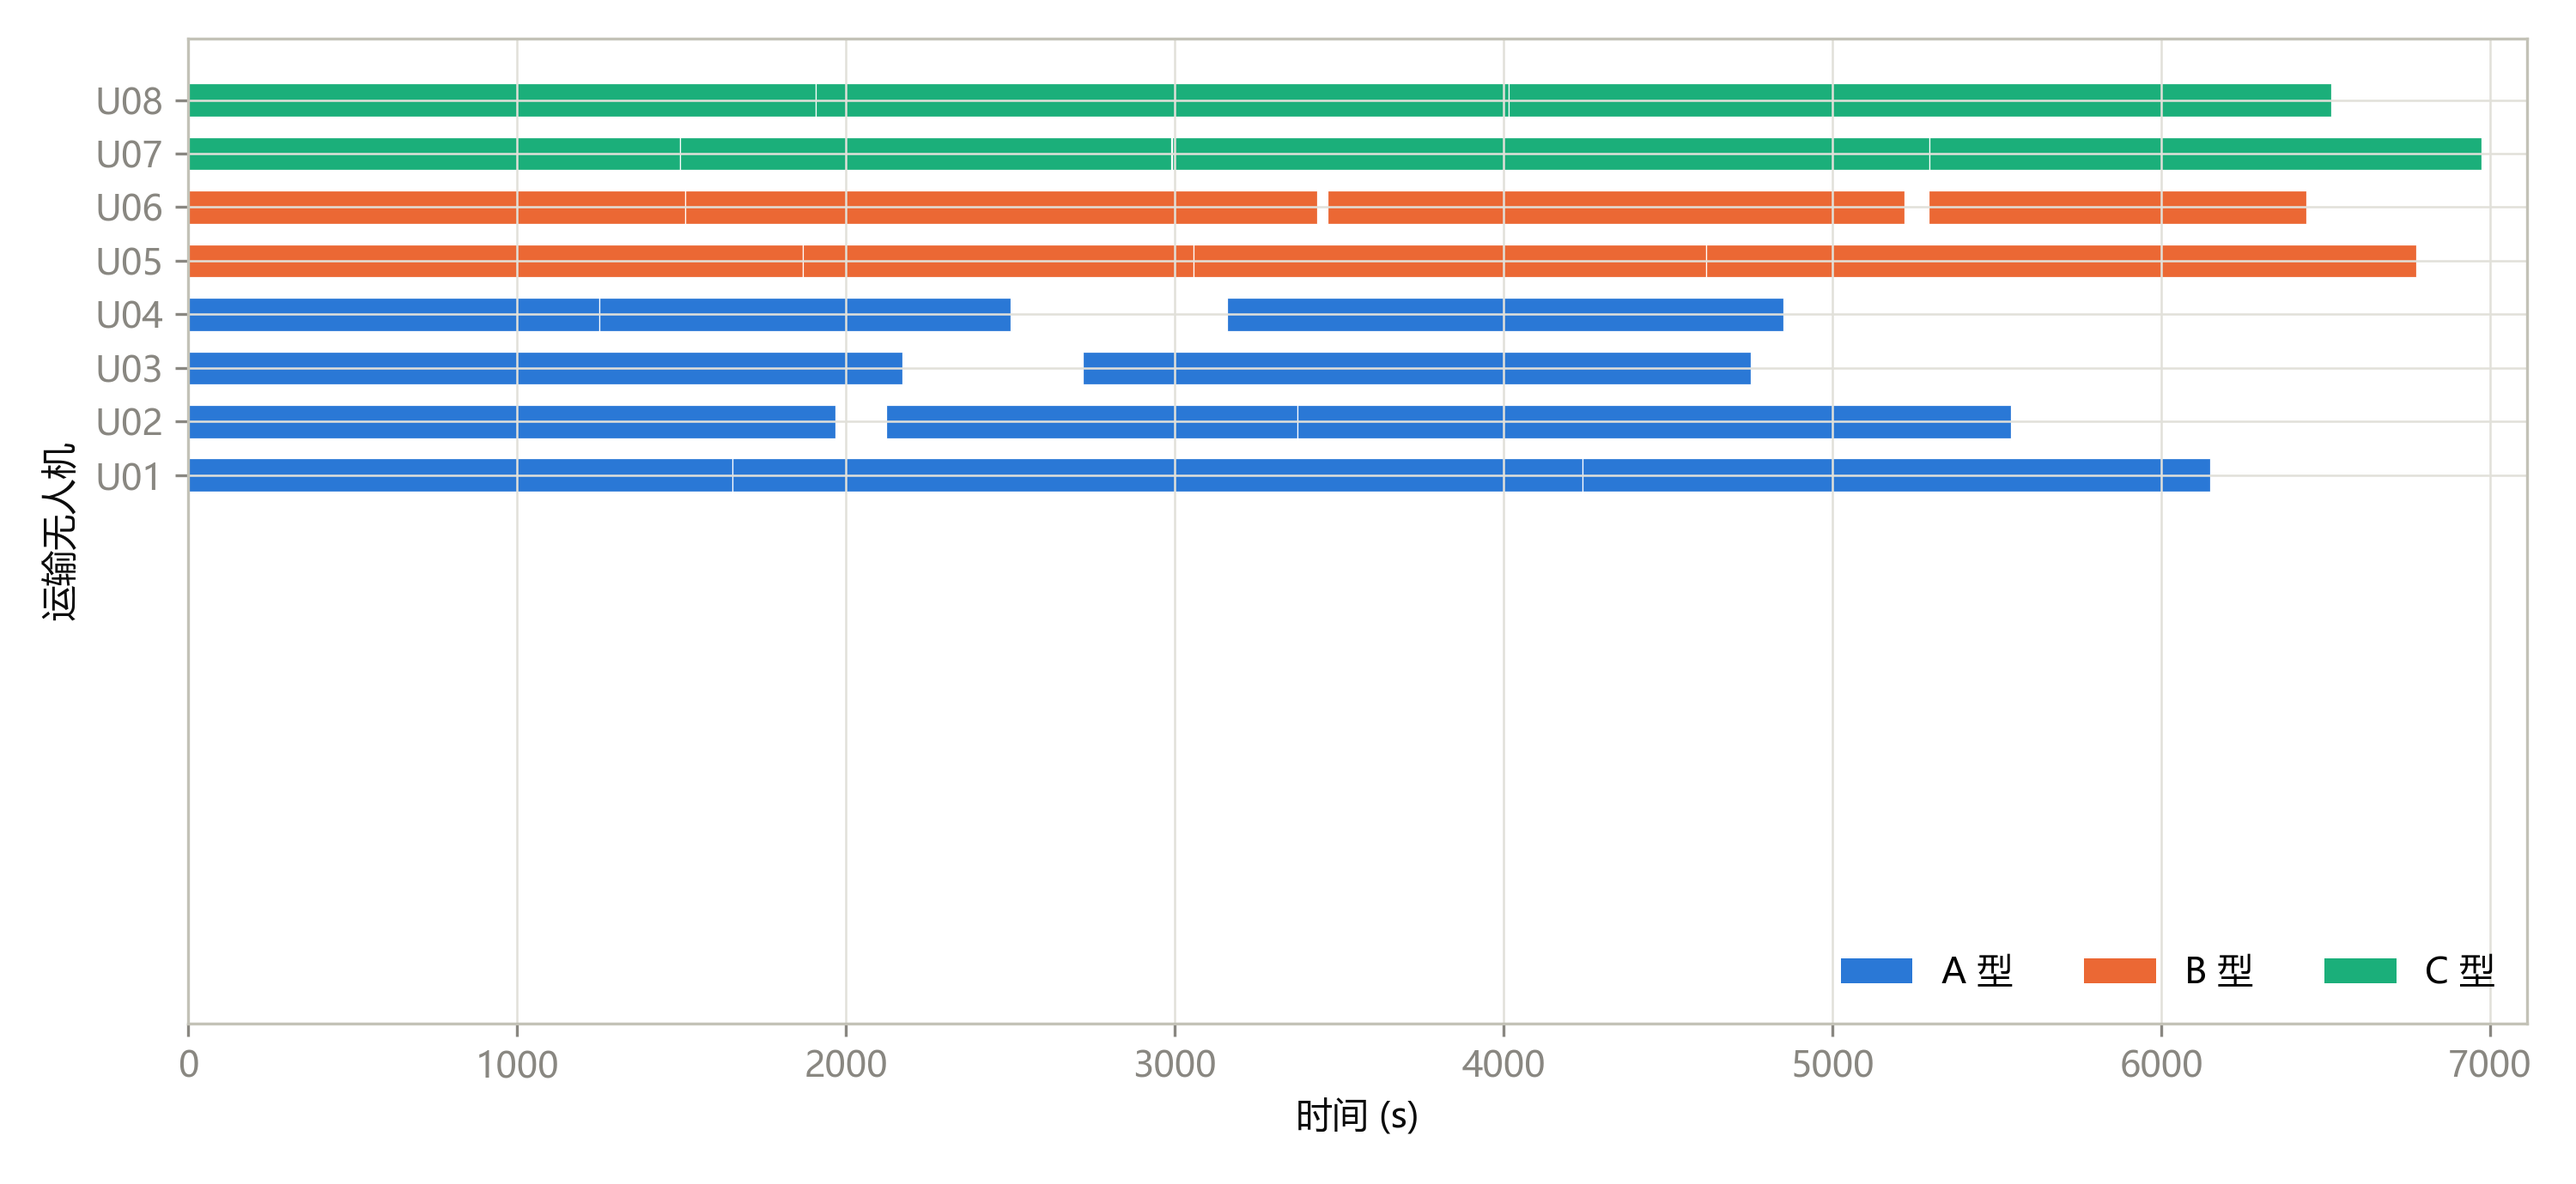
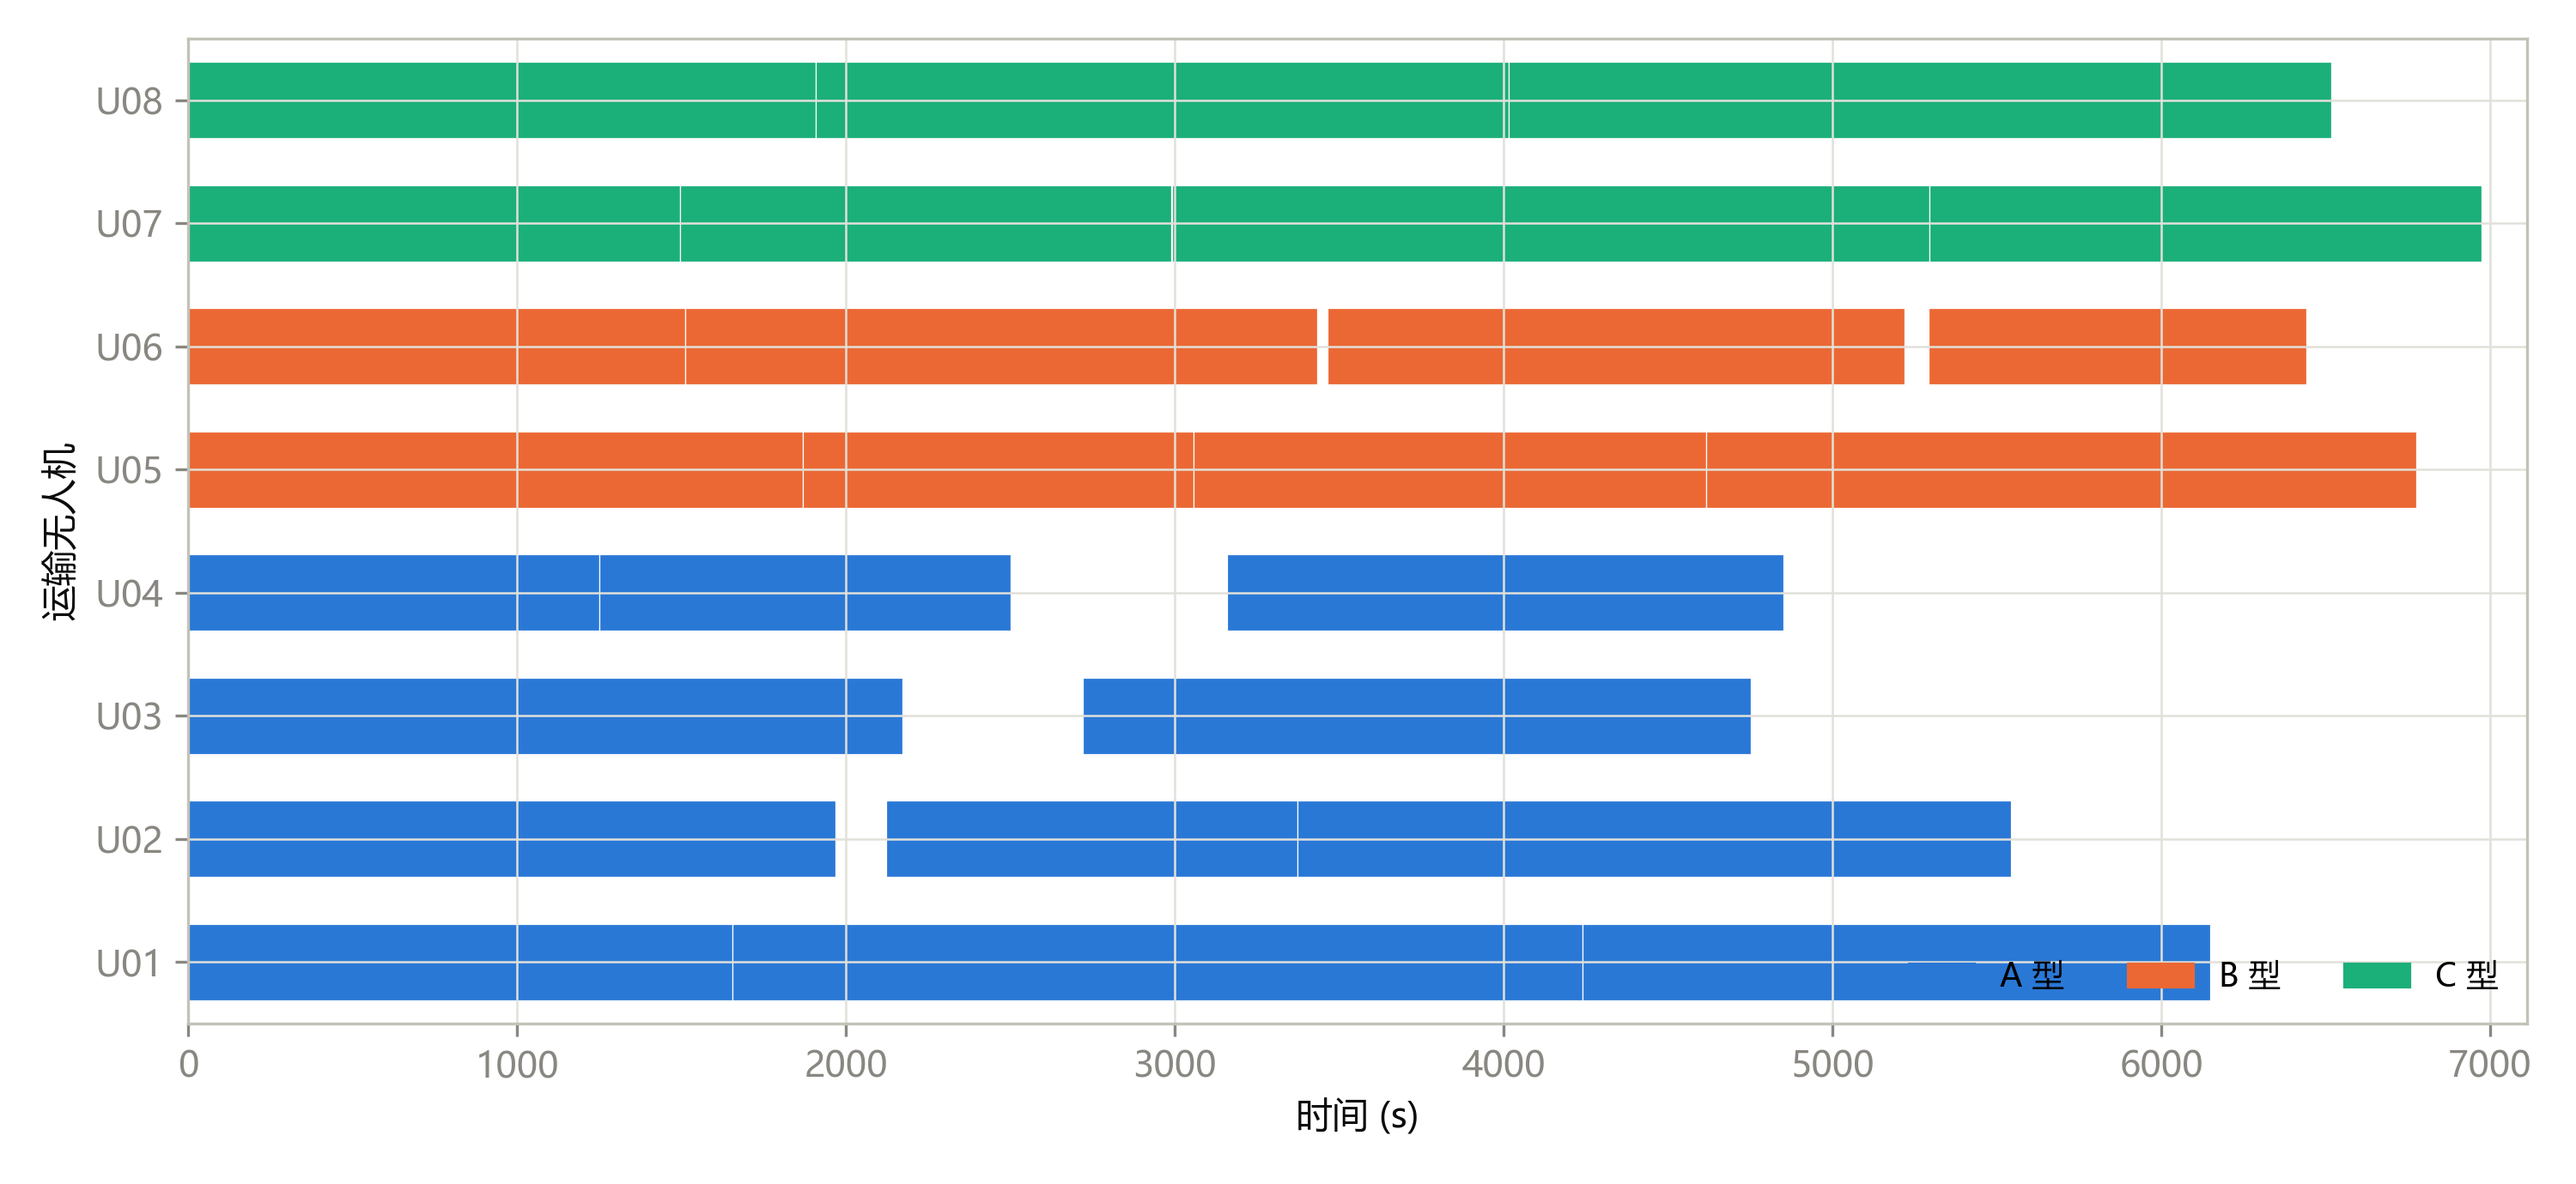
style(q2): fix figure layout — legend patches + shorter x labels

diff --git a/Q2/code/make_paper_figures.py b/Q2/code/make_paper_figures.py
@@ -55,15 +55,17 @@ def fig1():
         s, e = float(t["preparation_start_s"]), float(t["return_s"])
         ax.barh(y, e - s, left=s, height=0.62, color=TYPE_COLOR[t["type_id"]],
                 edgecolor="white", linewidth=0.3)
-    # legend by type
-    for k in ("A", "B", "C"):
-        ax.barh([-9], [1], color=TYPE_COLOR[k], label=TYPE_NAME[k])
+    # legend by type (use explicit patches, not off-screen bars)
+    import matplotlib.patches as mpatches
+    ax.legend(handles=[mpatches.Patch(color=TYPE_COLOR[k], label=TYPE_NAME[k])
+                       for k in ("A", "B", "C")],
+              loc="lower right", frameon=False, ncol=3, fontsize=9)
     ax.set_yticks(list(ypos.values()))
     ax.set_yticklabels(drones)
+    ax.set_ylim(-0.5, len(drones) - 0.5)
     ax.set_xlabel("时间 (s)")
     ax.set_ylabel("运输无人机")
     ax.set_xlim(0, max(float(t["return_s"]) for t in trips) * 1.02)
-    ax.legend(loc="lower right", frameon=False, ncol=3)
     fig.tight_layout()
     fig.savefig(FIG / "q2_fig1_drone_gantt.png", dpi=300)
     plt.close(fig)
@@ -109,14 +111,14 @@ def fig3():
     improved = read_csv("q2_improvement.csv")
     imp_last = improved[-1]
 
-    method_label = {"single_stop_baseline": "单点构造最佳",
-                    "multipoint": "多点构造最佳"}
+    method_label = {"single_stop_baseline": "单点构造",
+                    "multipoint": "多点构造"}
     order = sorted(best, key=lambda k: best[k]["makespan"])
     schemes = order + ["improved"]
     makespan = [best[k]["makespan"] for k in order] + [float(imp_last["makespan_s"])]
     energy = [best[k]["energy"] for k in order] + [float(imp_last["energy_kwh"])]
     trips = [best[k]["trips"] for k in order] + [int(imp_last["trips"])]
-    labels = [method_label.get(k, k) for k in order] + ["局部改进后"]
+    labels = [method_label.get(k, k) for k in order] + ["局部改进"]
 
     fig, axes = plt.subplots(1, 3, figsize=(10.4, 3.4))
     x = range(len(schemes))
@@ -128,7 +130,8 @@ def fig3():
     axes[2].set_ylabel("架次数")
     for ax in axes:
         ax.set_xticks(list(x))
-        ax.set_xticklabels(labels, rotation=30, ha="right", fontsize=8)
+        ax.set_xticklabels(labels, fontsize=9)
+        ax.tick_params(axis="x", rotation=0)
     for ax, vals in zip(axes, (makespan, energy, trips)):
         ax.set_ylim(0, max(vals) * 1.12)
     fig.tight_layout()
